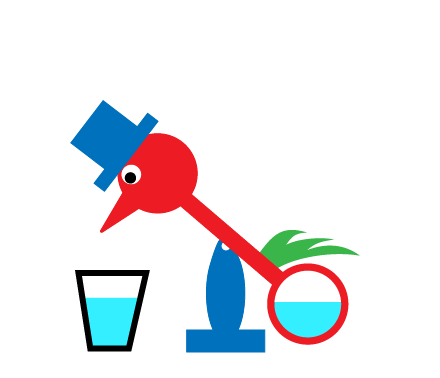
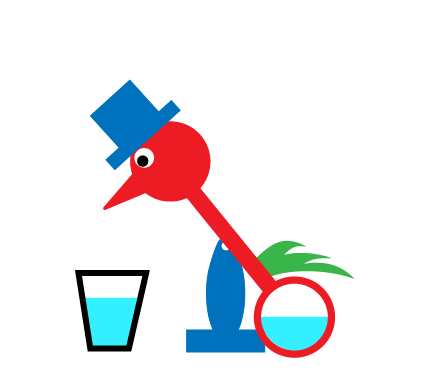
crit path changes

diff --git a/js/criticalPath/sketch.js b/js/criticalPath/sketch.js
@@ -13,7 +13,11 @@ var cPathSim = function(sketch) {
   let birdImgOff;
   let beakerImgList = [];
   let birdImgList = [];
-  let gumballImgList = []
+  let gumballImgList = [];
+  let pointer;
+  
+  this.touchAppImg = sketch.loadImage("images/game/conveyerImgs/touch_app.png");
+
 
   sketch.setup = function() {
     
@@ -72,6 +76,33 @@ var cPathSim = function(sketch) {
     sendBox.setWaitForBoxList(sendBoxWaitList);
     
     
+    ////////////
+    
+    //Pointer Setup//
+    
+    ///////////
+    
+    let pointerList = [];
+    pointerList.push({posX : 15, posY : 40, text : "        To advance tap the screen                                                                                                                                                                                                                                                                                                                                                 ", pointerPos: "left"}); //Littles Law Intro
+    pointerList.push({posX : (sketch.width/12), posY : 40, text : "Welcome to the Critical Path demonstration!", pointerPos: "left"}); //Intro
+    pointerList.push({posX : (sketch.width/12), posY : 40, text : "Today we will be learning about the Critical Path", pointerPos: "left"});
+    pointerList.push({posX : (sketch.width/12), posY : 40, text : "The Critical Path is the sequence of stages determining the minimum time needed for an operation to finish...", pointerPos: "left"});
+    pointerList.push({posX : (sketch.width/12), posY : 40, text : "In other words it is the part of your process or chain of processes that takes the longest to complete", pointerPos: "left"});
+    pointerList.push({posX : (sketch.width/12), posY : 40, text : "We can understand this by looking at the diagram below", pointerPos: "left"});
+    pointerList.push({posX : (sketch.width/12), posY : 40, text : "This is a map of our process...", pointerPos: "left"});
+    pointerList.push({posX : (sketch.width/12), posY : 40, text : "As you can see different items of work are performed at each stage of our process", pointerPos: "left"});
+    pointerList.push({posX : (sketch.width/12), posY : 40, text : "Each stage our of process can be referred to as a process machine with its own Flow time.", pointerPos: "left"});
+    pointerList.push({posX : (sketch.width/12), posY : 40, text : "The Flow time is the time that it takes for one unit of work to go through that machine", pointerPos: "left"});
+    pointerList.push({posX : (sketch.width/12), posY : 40, text : "In other words its the time it takes for the machine to take one unit input and produce one unit of output", pointerPos: "left"});
+    pointerList.push({posX : (sketch.width/12), posY : 40, text : "In our process map the lines indicate which processes need to be completed before others can start", pointerPos: "left"});
+    pointerList.push({posX : (sketch.width/12), posY : 40, text : "Try touching any process to observe how the flow occurs", pointerPos: "left"});
+    pointerList.push({posX : (sketch.width/12), posY : 40, text : "In some cases a process may not be able to start unless other processes have already finished", pointerPos: "left"}); // Point to converging processes
+    pointerList.push({posX : (sketch.width/12), posY : 40, text : "Try to identify the Critical Path in our process map, remember it will be the path with the longest total flow time", pointerPos: "left"});
+
+
+
+    pointer = new Pointer(sketch, pointerList);
+    
   }
 
   sketch.draw = function() {
@@ -107,6 +138,16 @@ var cPathSim = function(sketch) {
         gateBoxList[i].wasPowered = false;
       }
     }
+    
+    if(typeof pointer != 'undefined')
+    {
+      pointer.update();
+
+      if(pointer.ctr == 0)
+      {
+        sketch.image(this.touchAppImg, 155, 75, 75, 75);
+      }
+    }
   }
 
 
@@ -124,10 +165,12 @@ var cPathSim = function(sketch) {
           {
             flowTotal += gateBoxList[i].flow;
             gateBoxList[i].powerOn();
-            
+            return;
           }
         }
       }
+      
+      pointer.advance();
       
     }
   }
@@ -145,6 +188,7 @@ var cPathSim = function(sketch) {
     birdImgList.push(sketch.loadImage("images/game/criticalPath/bird1.png"));
     birdImgList.push(sketch.loadImage("images/game/criticalPath/bird2.png"));
     birdImgList.push(sketch.loadImage("images/game/criticalPath/bird3.png"));
+    birdImgList.push(sketch.loadImage("images/game/criticalPath/bird4.png"));
     
     gumballImgOff = sketch.loadImage("images/game/criticalPath/gumballOff.png");
     

diff --git a/js/conveyer/textBubble.js b/js/conveyer/textBubble.js
@@ -20,9 +20,11 @@ function TextBubble(sketch)
     if(text.length < maxLengthDefault)
       boxWidth = text.length + 5;
 
+    sketch.fill(255);
     sketch.rect(posX, posY, boxWidth * 7, this.txtBubbleHeightSingleLine * this.numLines, roundedCorner);
 //  sketch.image(this.textBubbleImg, posX+20, posY-42, maxLengthDefault * 9, this.txtBubbleHeightSingleLine * this.numLines);
-
+    
+    sketch.fill(0);
     sketch.text(outText.substring(0, this.textAnimIndex), posX + 8, posY + 15);
     this.textAnimIndex++;
 

diff --git a/js/criticalPath/gateBox.js b/js/criticalPath/gateBox.js
@@ -37,7 +37,7 @@ function GateBox(sketch, posX, posY, description, flow, imageOnList, imageOff, i
     {
       this.animIndex++;
       
-      if(this.animIndex > 2)
+      if(this.animIndex >= imageOnList.length)
         this.animIndex = 0;
     }
     
